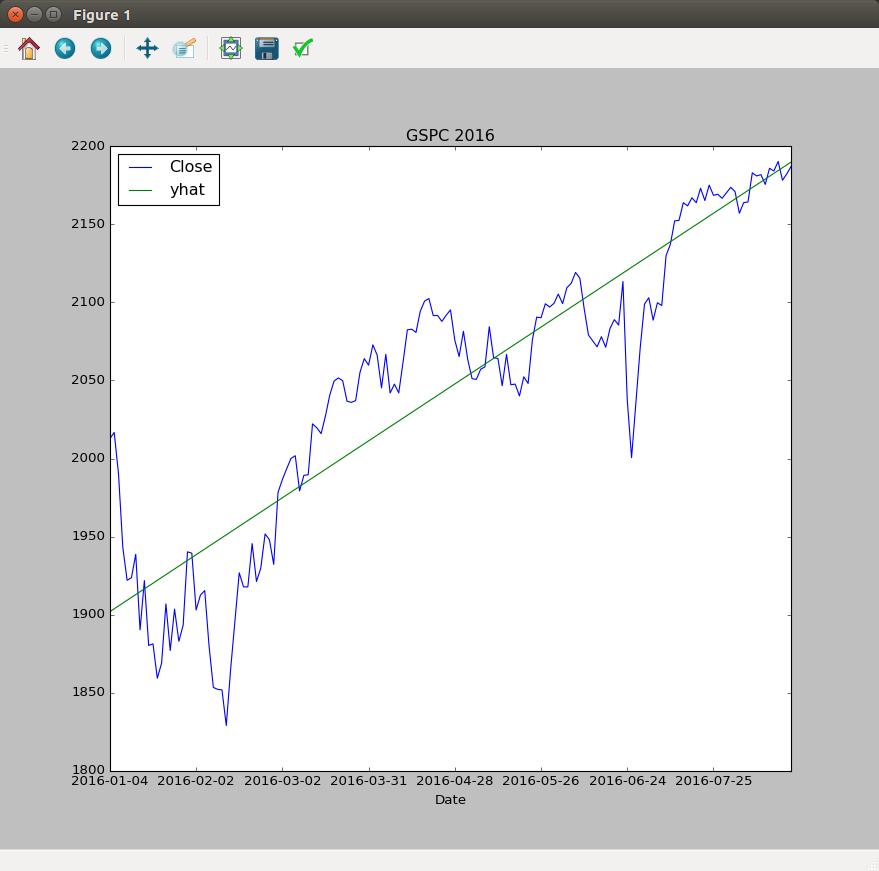
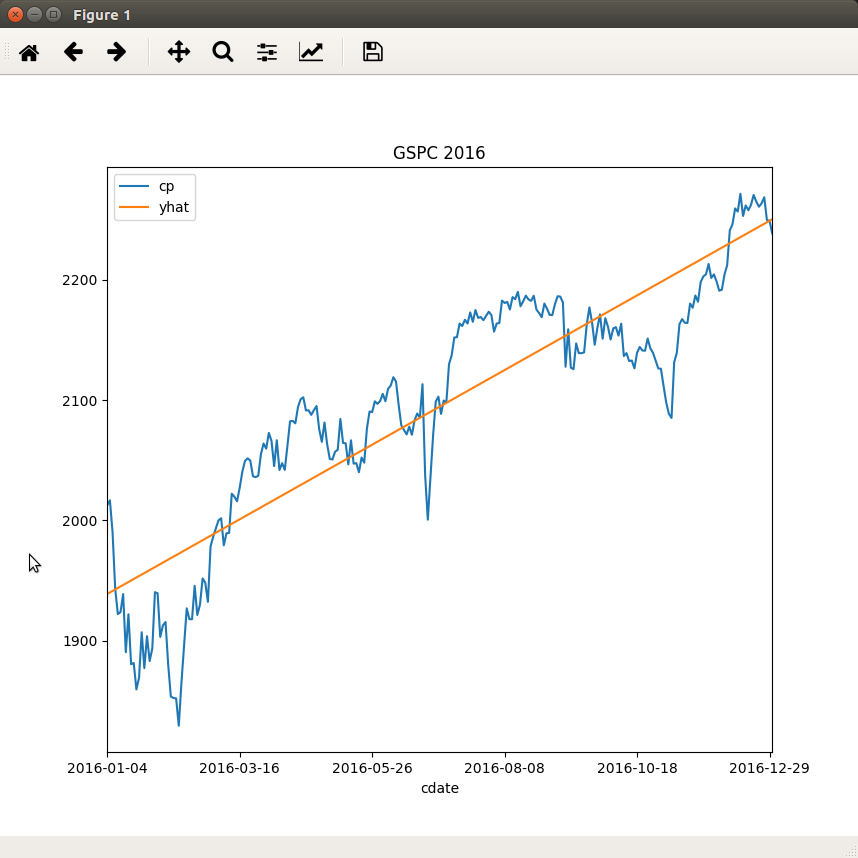
more

diff --git a/public/class03demos/class03p16.py b/public/class03demos/class03p16.py
@@ -1,18 +1,20 @@
-# class03p15.py
+"""
+class03p16.py
 
-# This script should plot a fitted line on top of the 2016 prices
-# ref:
-# http://www.ml4.us/class03/pdf1.png
-# http://www.stat.purdue.edu/~jennings/stat514/stat512notes/topic3.pdf
+This script should plot a fitted line on top of the 2016 prices
+ref:
+http://www.ml4.us/class03/pdf1.png
+http://www.stat.purdue.edu/~jennings/stat514/stat512notes/topic3.pdf
+"""
 
 import pandas as pd
 import numpy  as np
 import matplotlib.pyplot as plt
 
-csvfile   = 'http://ichart.finance.yahoo.com/table.csv?s=%5EGSPC'
-cp_df     = pd.read_csv(csvfile).sort_values(['Date'])
-cp2016_sr = (cp_df.Date > '2016') & (cp_df.Date < '2017')
-cp2016_df = cp_df[['Date','Close']][cp2016_sr]
+csvfile   = 'http://spy611.com/csv/allpredictions.csv'
+cp_df     = pd.read_csv(csvfile).sort_values(['cdate'])
+cp2016_sr = (cp_df.cdate > '2016') & (cp_df.cdate < '2017')
+cp2016_df = cp_df[['cdate','cp']][cp2016_sr]
 
 def colvec(arylst):
     # This should help me create column vectors from arrays or lists:
@@ -22,7 +24,7 @@ x_a      = colvec(range(len(cp2016_df)))
 ones_l   = [1]*len(cp2016_df)
 ones_a   = colvec(ones_l)
 xvals_a  = np.hstack((ones_a,x_a))
-yvals_a  = colvec(cp2016_df.Close)
+yvals_a  = colvec(cp2016_df.cp)
 middle_a = np.linalg.pinv(np.matmul(xvals_a.T,xvals_a))
 rhs_a    = np.matmul(xvals_a.T,yvals_a)
 beta_a   = np.matmul(middle_a,rhs_a)
@@ -31,8 +33,8 @@ yhat_a   = np.matmul(x_in_a,beta_a)
 cp2016_df['yhat'] = yhat_a
 
 # To make a better plot I should convert X-values from integers to series of strings:
-cpdate2016_df = cp2016_df.set_index(['Date'])
-# I should plot Close (closing price), and fitted line:
+cpdate2016_df = cp2016_df.set_index(['cdate'])
+# I should plot cp (closing price), and fitted line:
 cpdate2016_df.plot.line(title="GSPC 2016")
 plt.show()
 
